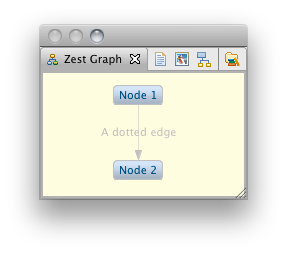
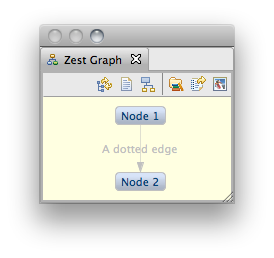
[277380] gef-head fsteeg 100725 Updated dot4zest documentation from the wiki and increased version numbers

Changed region(s): [[0.1168, 0.1102, 0.8759, 0.7992]]

diff --git a/org.eclipse.zest.dot.ui/Graphviz_DOT_as_a_DSL_for_Zest/Graphviz-DOT-as-a-DSL-for-Zest.html b/org.eclipse.zest.dot.ui/Graphviz_DOT_as_a_DSL_for_Zest/Graphviz-DOT-as-a-DSL-for-Zest.html
@@ -62,7 +62,7 @@
 			<i>src-gen</i> folder of a Zest project as the container in the wizard (or select it before starting the wizard).
 		</p>
 		<h4 id="Zest_Graph_View">Zest Graph View</h4>
-		<p>The Zest Graph view listens to changes made to *.dot files in the workspace. The view draws the DOT graphs using Zest and allows for image export of the current Zest graph. When a *.dot file is added to the workspace or altered in an editor, the Zest graph view is updated with the graph created from the *.dot file. For instance, consider a file with the .dot extension, containing the following DOT graph definition: </p>
+		<p>The Zest Graph view can visualize DOT graphs in *.dot files or embedded in other files in the workspace. The view draws the DOT graphs using Zest and allows for image export of the current Zest graph. When automatic updating is enabled (see below), and a *.dot file or embedded DOT content is added to the workspace or altered in an editor, the Zest graph view is updated with the graph created from the DOT input. For instance, consider a file with the .dot extension, containing the following DOT graph definition: </p>
 		<pre>digraph s{ 
  n1[label="Node 1"]; n2[label="Node 2"]; 
  n1 -&gt; n2[style=dotted label="A dotted edge"]
@@ -72,17 +72,17 @@
 		<p>
 			<img width="200" border="0" src="images/DotZestGraphView.png"/>
 		</p>
-		<p>The view contains buttons to load a specific *.dot file, to export the current Zest graph as an image file by calling the 
-			<i>dot</i> executable, to layout the current graph, and to re-select the directory containing the 
-			<i>dot</i> executable (from left to right). When the image export button is selected, a PDF for the current graph is saved in the directory containing the input *.dot file. In this example, the export looks like this:
+		<p>The view contains buttons to toggle automatic updates, to load a specific file containing a DOT graph, and to layout the current graph. To export the current Zest graph as an image file by calling the 
+			<i>dot</i> executable, the view contains buttons to re-select the directory containing the 
+			<i>dot</i> executable, to enable export of the original DOT input, and to export as an image file (from left to right). When the image export button is selected, a PDF for the current graph is saved in the directory containing the file with the DOT input, and opened with the associated external editor, if one is available. In this example, the export looks like this:
 		</p>
 		<p>
 			<img border="0" src="images/DotZestM2Rendered.png"/>
 		</p>
-		<p>This completes the Zest-based DOT authoring environment: if the *.dot file is inside the 
-			<i>templates/</i> folder of a Zest project, the file will both be visualized in the Zest Graph view (e.g. during editing) and compiled to a Zest graph subclass (e.g. to be used in a different application), and can be exported as a PDF with Graphviz.
+		<p>This completes the Zest-based DOT authoring environment. If the *.dot file is inside the 
+			<i>templates/</i> folder of a Zest project, the file will be visualized in the Zest Graph view (e.g. during editing), compiled to a Zest graph subclass (e.g. to be used in a different application), and can be exported as a PDF with Graphviz.
 		</p>
-		<p>At the same time the view provides a simple way to visualize *.dot file output of any kind of program, e.g. to visualize and debug internal data structures, results, etc: if a program running in Eclipse outputs any *.dot file in the workspace, the view will be updated with the corresponding Zest graph.</p>
+		<p>At the same time the view provides a simple way to visualize *.dot file output of any kind of program, e.g. to visualize and debug internal data structures, results, etc: if a program running in Eclipse outputs any *.dot file in the workspace and the workspace is refreshed, the view will be updated with the corresponding Zest graph (if automatic updating is enabled, see above).</p>
 		<h4 id="Editing">Editing</h4>
 		<p>The Zest view can be used with the included DOT editor to visualize a DOT file:</p>
 		<p>
@@ -193,7 +193,7 @@ File image = exporter.toImage("/opt/local/bin", "pdf");
 		</p>
 		<p>Then, check out the bundles from the CVS location above. After the checkout, run (Run As -&gt; MWE2 workflow) the 
 			<i>GenerateDot.mwe2</i> in the 
-			<i>/src/org/eclipse/zest/internal/dot/parser</i> folder of the import bundle.
+			<i>/src/org/eclipse/zest/internal/dot/parser</i> folder of the import bundle. Make sure to set the project or workspace encoding to UTF-8.
 		</p>
 		<p>Run the 
 			<i>*Suite.java</i> test suites of the individual bundles (in src-test/) as JUnit tests to get an impression of the current implementation state. To test the UI components, run an Eclipse application configured with 
